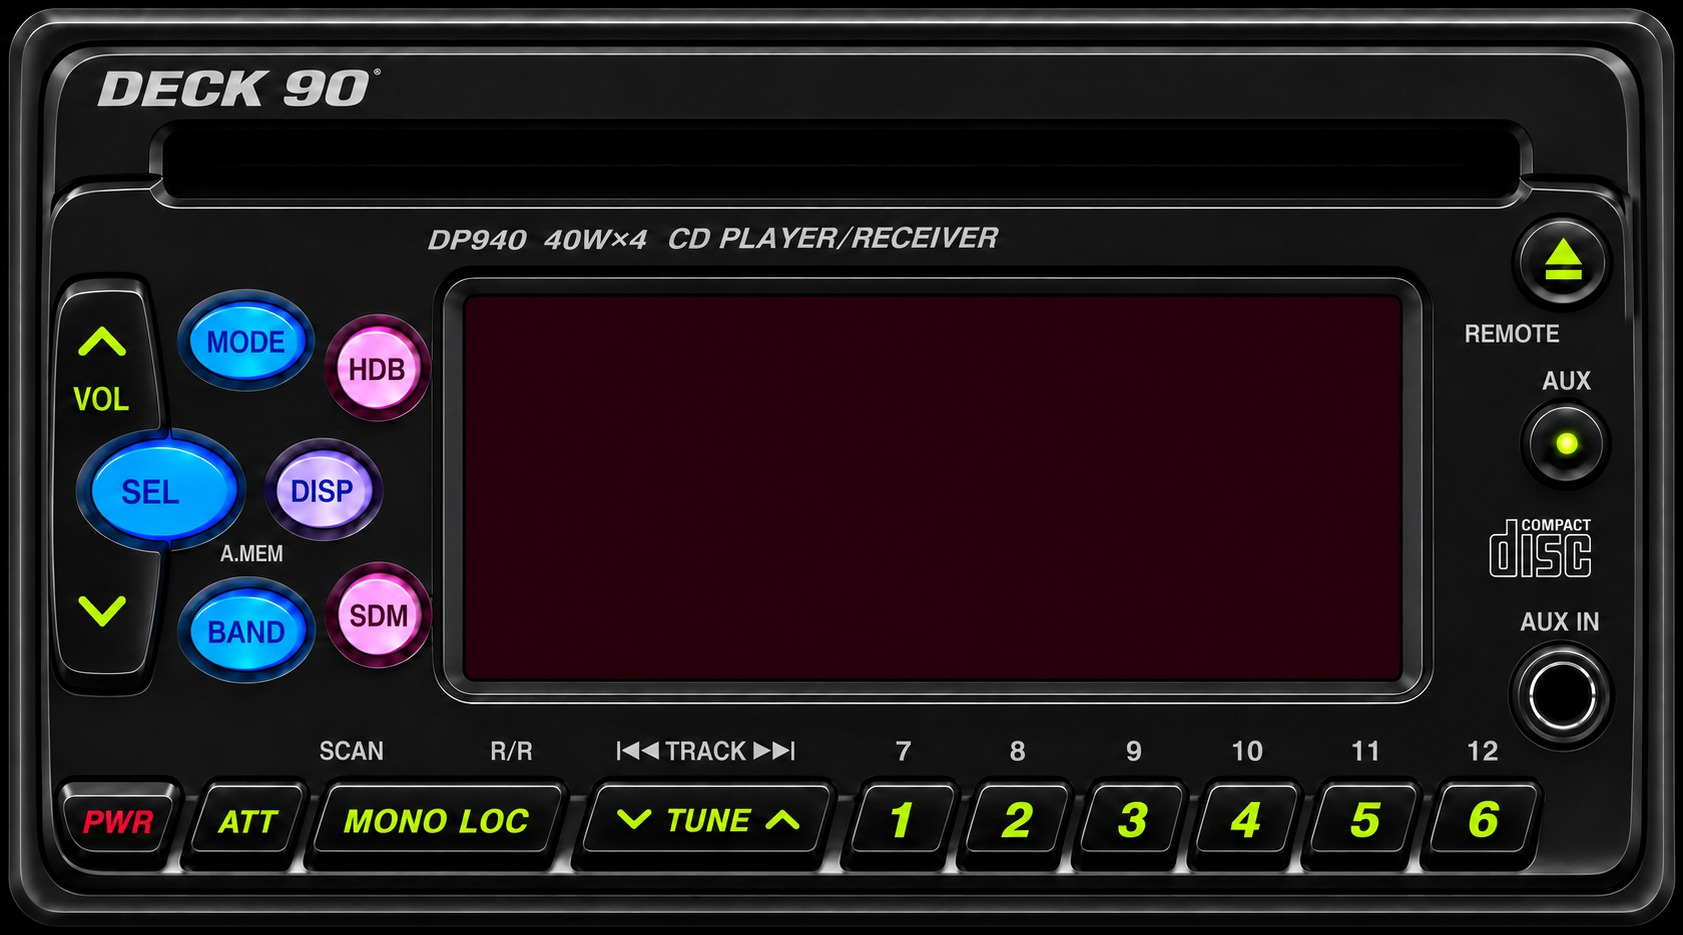
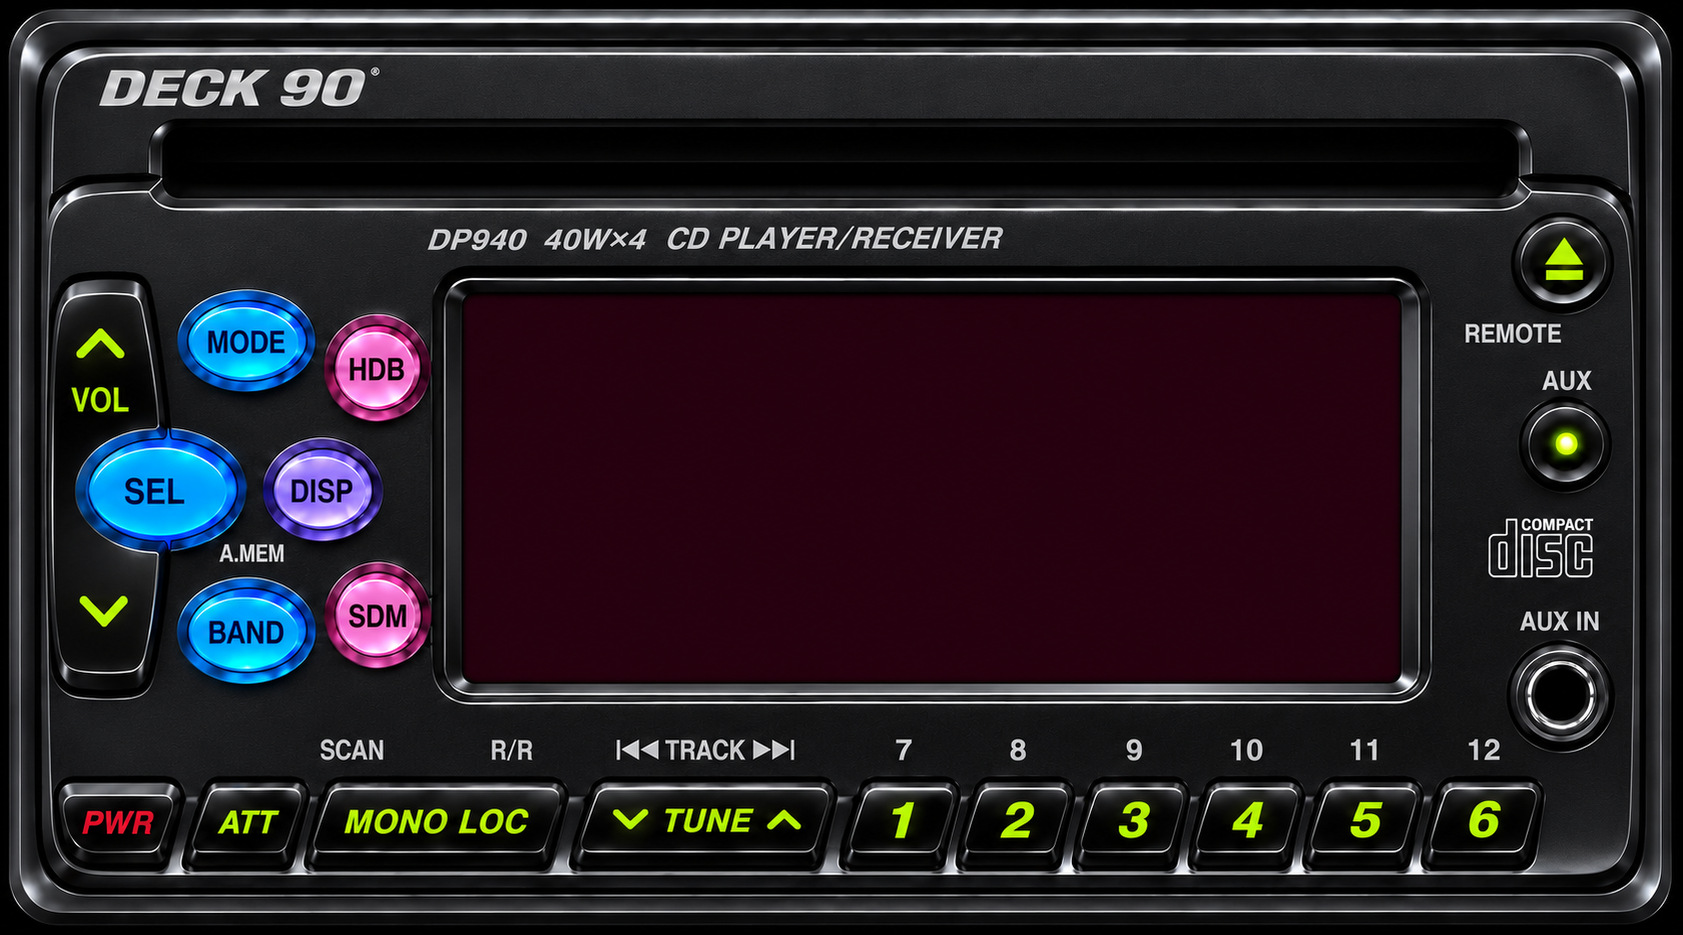
The double DIN's redrawn front from the PC (0.1.18)
Claude-Session: https://claude.ai/code/session_01CSpiAfwMtvrKp6wf1rN1Pf

Changed region(s): [[0.0, 0.0, 1.0, 0.9925], [0.0, 0.7134, 0.0927, 0.7754], [0.1854, 0.7754, 0.2472, 0.8064]]

diff --git a/CHANGELOG.md b/CHANGELOG.md
@@ -1,5 +1,9 @@
 # Changelog
 
+## 0.1.18
+
+- Face synced from deck-90 7.10.33: the redrawn double-DIN photo (`img/front-ddin.jpg`, same size and key places).
+
 ## 0.1.17
 
 - The lists' home took its counts from the last state, which could still be the other source's right after SOURCE

diff --git a/NOVEDADES.md b/NOVEDADES.md
@@ -1,5 +1,11 @@
 # Novedades
 
+## 0.1.18 — 2026-11-22
+
+### Mejor
+- **El frente del doble DIN, redibujado** (el de la PC 7.10.33): botones con más profundidad y brillo, letras nítidas.
+  Las teclas quedan en el mismo lugar.
+
 ## 0.1.17 — 2026-11-22
 
 ### Arreglado
